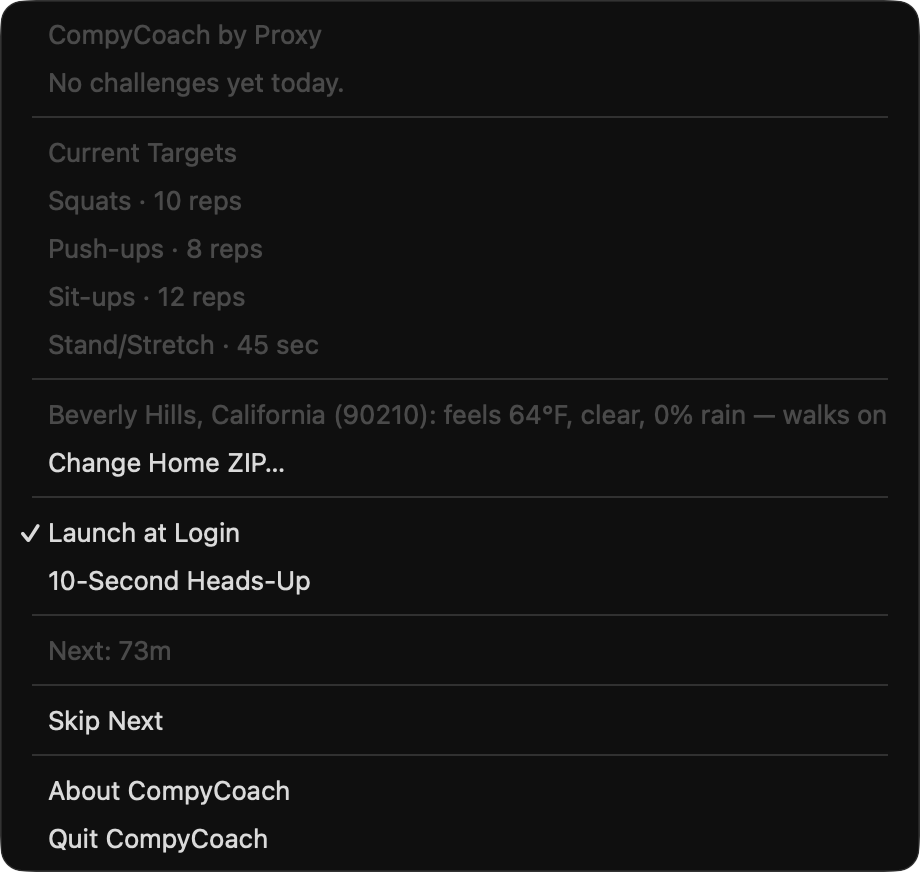
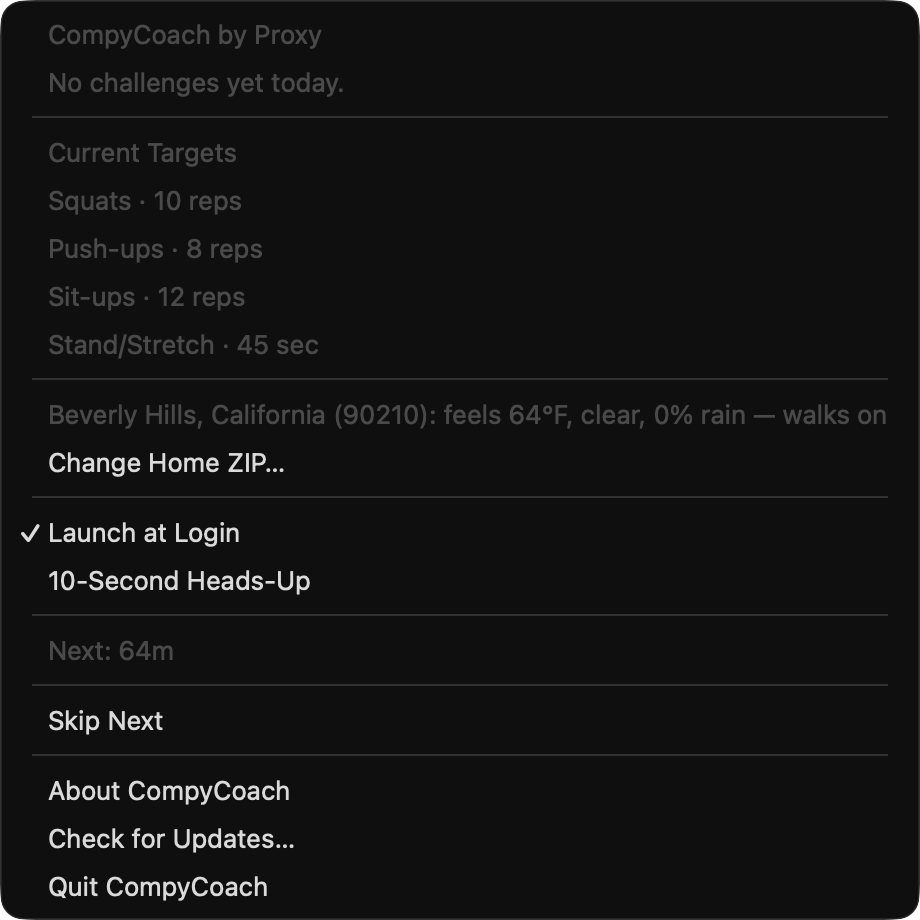
Refresh the menu screenshot and list for Check for Updates

Changed region(s): [[0.0304, 0.031, 0.9739, 0.867], [0.0304, 0.8979, 0.3348, 0.9908]]

diff --git a/README.md b/README.md
@@ -62,8 +62,9 @@ Click the icon in the menu bar to see:
 - **Set Home ZIP for Walk Weather…**
 - **Launch at Login** and **10-Second Heads-Up**
 - **Skip Next** to push the next break back a full interval
+- **About CompyCoach**
 - **Check for Updates…** to see if there's a newer version
-- **About CompyCoach** and **Quit**
+- **Quit CompyCoach**
 
 ## How targets change
 
